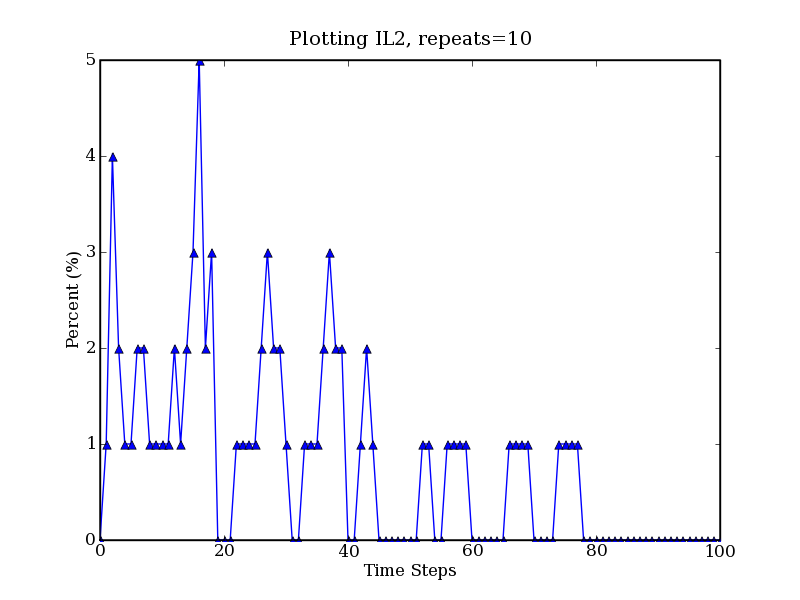
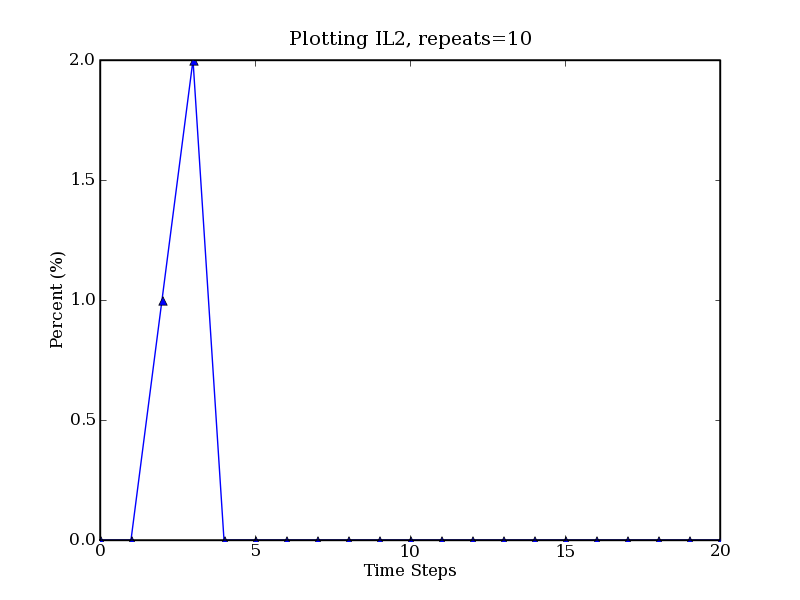
parameter order fix

diff --git a/boolean/helper.py b/boolean/helper.py
@@ -48,7 +48,7 @@ def hill_func( node, indexer, par):
     """
     index = indexer[node]
     try:
-        text = ' hill( c%d, %s, %s ) ' % ( index, par[node].h, par[node].n )
+        text = ' hill( c%d, h=%s, n=%s ) ' % ( index, par[node].h, par[node].n )
     except Exception, exc:
         msg = "error creating hill function for node %s -> %s" % (node, exc)
         raise Exception(msg)
@@ -60,7 +60,7 @@ def prop_func( node, indexer, par):
     """
     index = indexer[node]
     try:
-        text = ' prop( %s, %s ) ' % ( par[node].r, par[node].rc )
+        text = ' prop( r=%s, rc=%s ) ' % ( par[node].r, par[node].rc )
     except Exception, exc:
         msg = "error creating proportion function for node %s -> %s" % (node, exc)
         raise Exception(msg)

diff --git a/examples/immune/Bb-lpde.py b/examples/immune/Bb-lpde.py
@@ -12,14 +12,14 @@ STEPS  = 100 # number of steps
 text = util.read( 'Bb.txt')
 engine = Engine( mode='lpde', text=text )
 engine.initialize( missing=util.allfalse)
-engine.iterate( fullt=FULLT, steps=STEPS, debug=0 )
+engine.iterate( fullt=FULLT, steps=STEPS, debug=1 )
 
 #print engine.dynamic_code
 #
 # now plot with matplotlib
 #
 import pylab 
-nodes = "Bb PH AgAb C".split()
+nodes = "IFNgI PH AgAb C".split()
 collect = []
 for node in nodes:
     values = engine.data[node]

diff --git a/examples/LGL/LGL.py b/examples/LGL/LGL.py
@@ -5,7 +5,7 @@ sys.path.append("../..")
 from boolean import Engine, util
 import random
 
-TARGET = set( "Stimuli IL15 PDGF".split()  )
+TARGET = set( "Stimuli".split()  )
 
 def new_getvalue( state, name, p):
     """
@@ -57,7 +57,7 @@ if __name__ == '__main__':
     
     node   = 'IL2'
     repeat = 10 # raise this for better curves
-    steps  = 100
+    steps  = 20
 
     text = util.read( 'LGL.txt')
 

diff --git a/setup.py b/setup.py
@@ -7,7 +7,7 @@
 from distutils.core import setup
 
 setup( name='BooleanNet',
-       version='0.9.3',
+       version='0.9.4',
        description='Boolean Network Simulator',
        author='Istvan Albert',
        author_email='istvan.albert@gmail.com',

diff --git a/boolean/util.py b/boolean/util.py
@@ -14,6 +14,9 @@ class State(object):
     
     def __getitem__(self, key):
         return self.__dict__[key]
+    
+    def __setitem__(self, key, value):
+        self.__dict__[key] = value
 
     def __repr__(self):  
         "Default string format"

diff --git a/examples/immune/Bb-example.py b/examples/immune/Bb-example.py
@@ -192,7 +192,7 @@ engine.iterate( fullt=FULLT, steps=STEPS, debug=1 )
 
 import pylab 
 #nodes = "Bb PH AgAb C".split()
-nodes = "Bb".split()
+nodes = "IFNgI Bb".split()
 
 collect = []
 for node in nodes:
